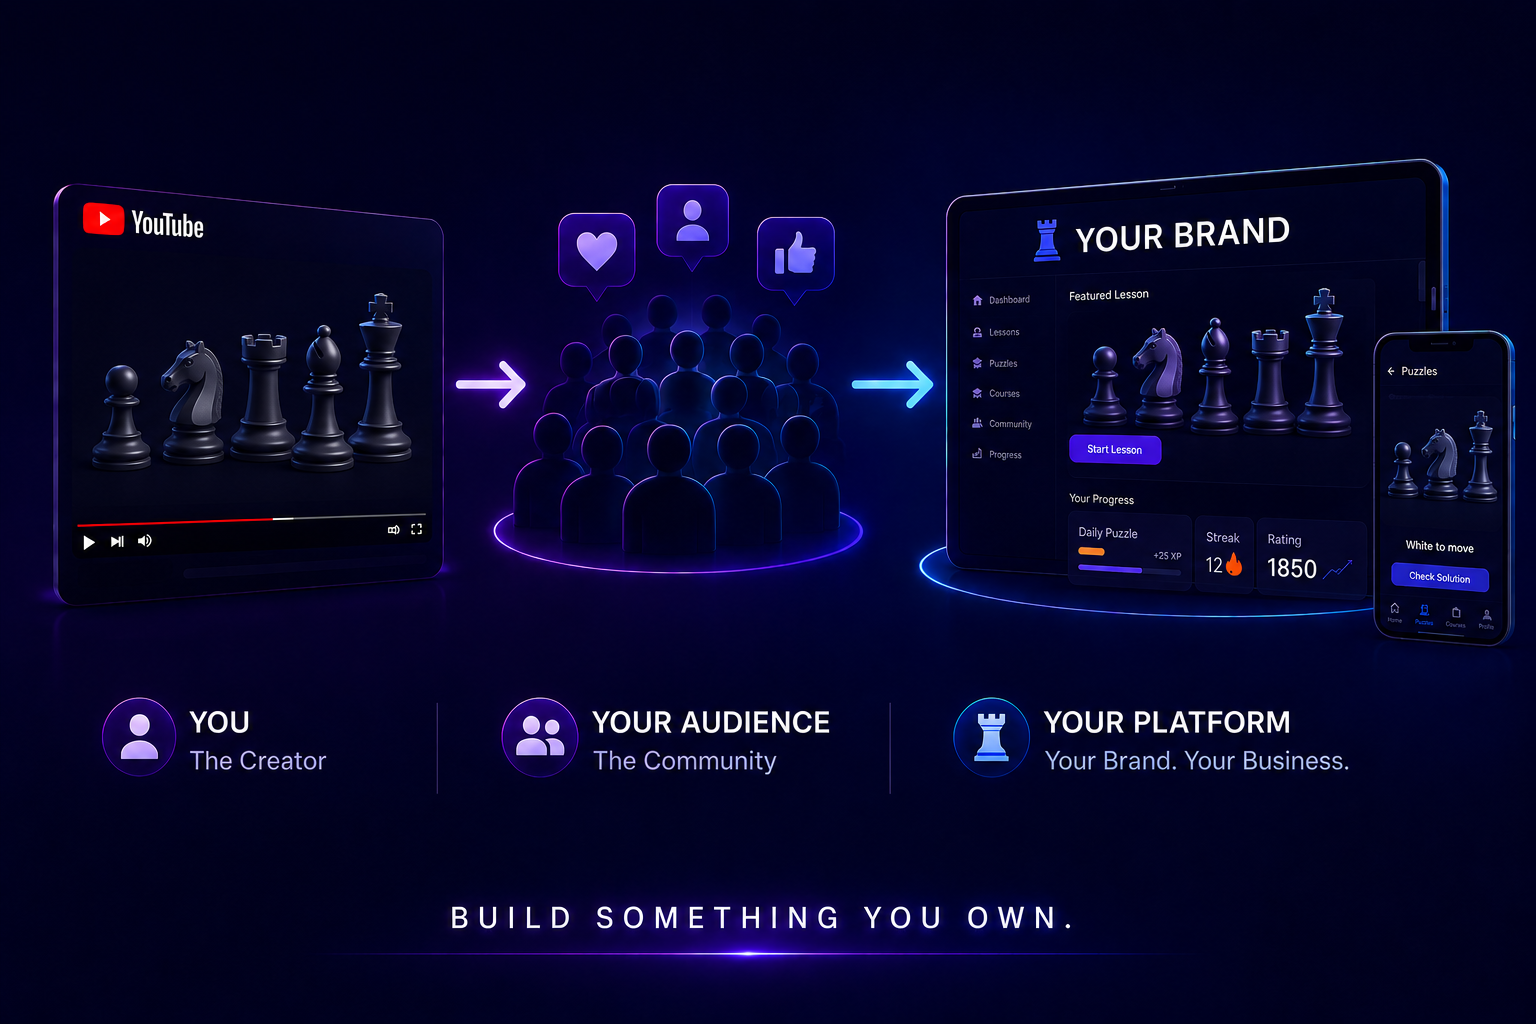
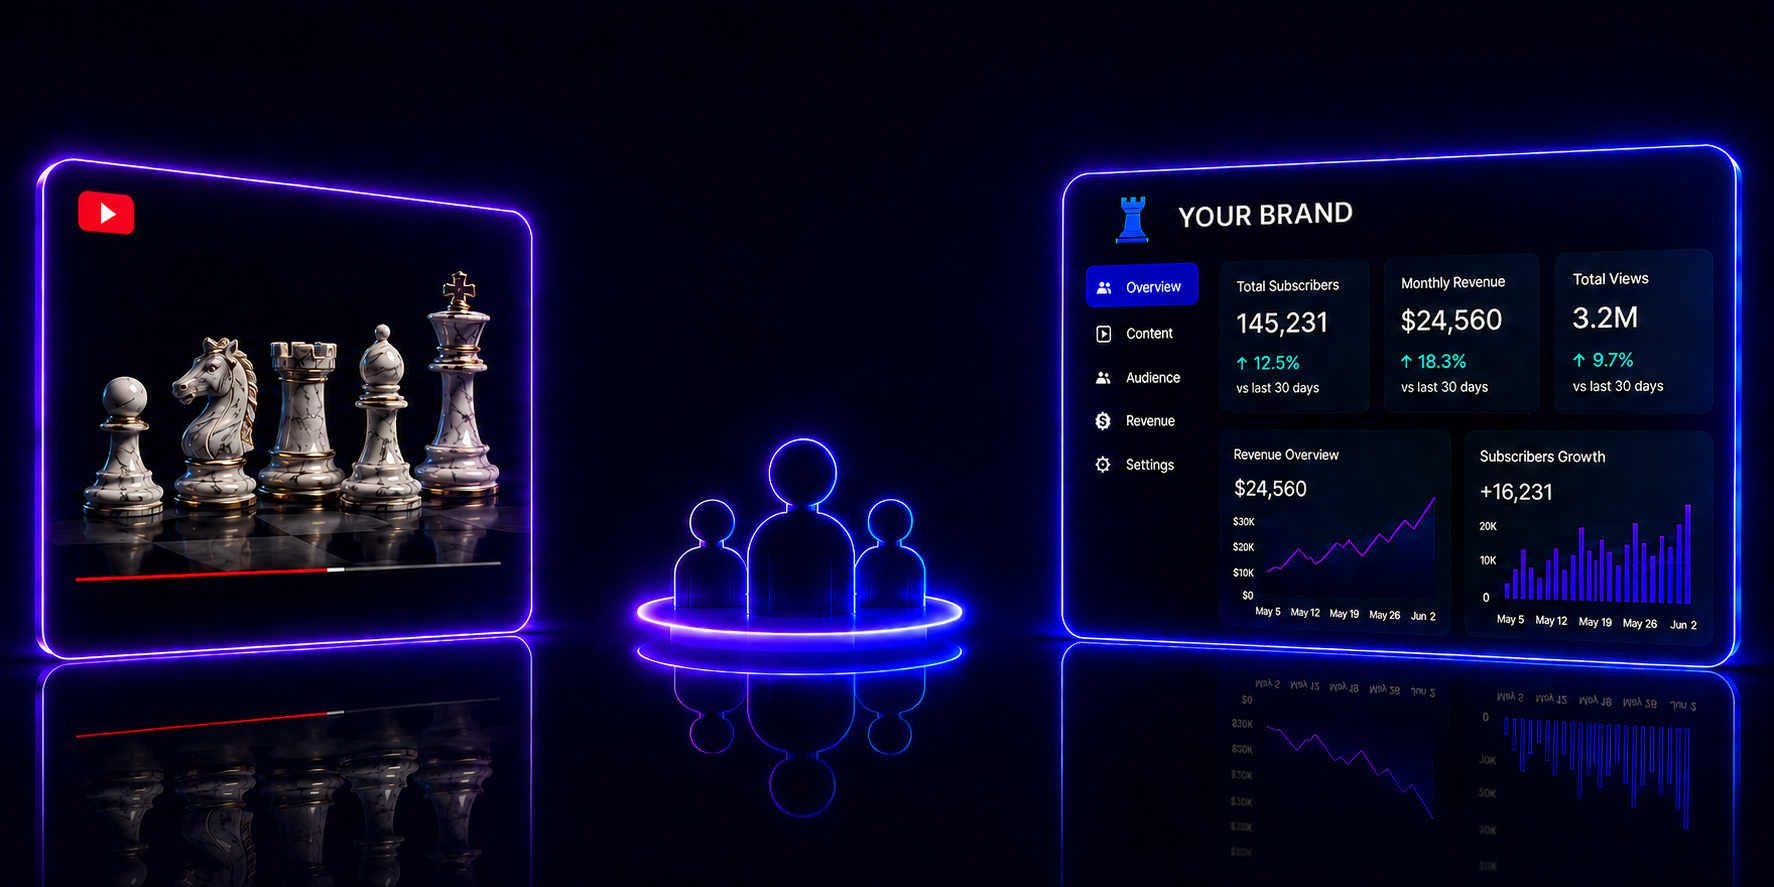
Refine UI and implement magnetic wiggle animations

diff --git a/src/components/Hero.tsx b/src/components/Hero.tsx
@@ -18,6 +18,7 @@ import { useRef } from 'react';
 
 import { useGSAP } from '../hooks/useGSAP';
 import { usePerspectiveTilt } from '../hooks/usePerspectiveTilt';
+import { useMagneticWiggle } from '../hooks/useMagneticWiggle';
 import { useButtonGlow } from '../hooks/useButtonGlow';
 import { gsap, dur, ease } from '../utils/gsapConfig';
 import HeroPuzzle from './HeroPuzzle';
@@ -62,11 +63,17 @@ export default function Hero() {
     disableMobileFloat: true,
   });
 
+  const ctaAnchorRef = useRef<HTMLAnchorElement>(null);
+
   // Merge tilt ref + glow ref onto the same anchor element
   const mergedPlayRef = (el: HTMLAnchorElement | null) => {
     (primaryGlowRef as React.MutableRefObject<HTMLAnchorElement | null>).current = el;
     (playBtnTiltRef as React.MutableRefObject<HTMLAnchorElement | null>).current = el;
+    (ctaAnchorRef as React.MutableRefObject<HTMLAnchorElement | null>).current = el;
   };
+
+  useMagneticWiggle({ targetRef: heroLogoRef, containerRef: heroLogoContainerRef, magneticStrength: 0.35 });
+  useMagneticWiggle({ targetRef: playIconRef, containerRef: ctaAnchorRef, magneticStrength: 0.4 });
 
   // ── GSAP entrance animations ───────────────────────────────────────────────
   useGSAP(
@@ -153,30 +160,8 @@ export default function Hero() {
         });
       }
 
-      // ── Hero logo floating animation ────────────────────────────────────
+      // ── Glow pulses (preserved) ──────────────────────────────────────────
       if (heroLogoRef.current) {
-        gsap.to(heroLogoRef.current, {
-          y: -6,
-          duration: 2,
-          repeat: -1,
-          yoyo: true,
-          ease: 'power1.inOut',
-        });
-        gsap.to(heroLogoRef.current, {
-          scale: 1.03,
-          duration: 2.5,
-          repeat: -1,
-          yoyo: true,
-          ease: 'sine.inOut',
-        });
-        gsap.to(heroLogoRef.current, {
-          rotation: 2,
-          duration: 3,
-          repeat: -1,
-          yoyo: true,
-          ease: 'sine.inOut',
-        });
-        // Subtle glow pulse
         gsap.to(heroLogoRef.current, {
           filter: 'drop-shadow(0 0 12px rgba(99, 102, 241, 0.5))',
           duration: 2,
@@ -185,46 +170,7 @@ export default function Hero() {
           ease: 'sine.inOut',
         });
       }
-
-      // ── Play icon floating animation — identical motion to hero logo ──────
-      // Same 4-layer animation: float ↕, scale breathe, gentle rotation, glow pulse
       if (playIconRef.current) {
-        // Layer 1: translateY float (-6px → 0) over 3s
-        gsap.to(playIconRef.current, {
-          y: -6,
-          duration: 3,
-          repeat: -1,
-          yoyo: true,
-          ease: 'power1.inOut',
-        });
-        // Layer 2: subtle X drift (-2px → +2px)
-        gsap.to(playIconRef.current, {
-          x: 2,
-          duration: 3.5,
-          repeat: -1,
-          yoyo: true,
-          ease: 'sine.inOut',
-          delay: 0.4,
-        });
-        // Layer 3: gentle scale breathe
-        gsap.to(playIconRef.current, {
-          scale: 1.04,
-          duration: 2.5,
-          repeat: -1,
-          yoyo: true,
-          ease: 'sine.inOut',
-          delay: 0.2,
-        });
-        // Layer 4: subtle rotation ±2°
-        gsap.to(playIconRef.current, {
-          rotation: 2,
-          duration: 4,
-          repeat: -1,
-          yoyo: true,
-          ease: 'sine.inOut',
-          delay: 0.6,
-        });
-        // Layer 5: indigo glow pulse matching hero logo
         gsap.to(playIconRef.current, {
           filter: 'drop-shadow(0 0 10px rgba(99, 102, 241, 0.55))',
           duration: 2,
@@ -331,8 +277,8 @@ export default function Hero() {
                 style={{ 
                   transformStyle: 'preserve-3d', 
                   willChange: 'transform',
-                  width: '190px',
-                  height: '80px',
+                  width: '140px',
+                  height: '64px',
                   padding: '0 20px',
                 }}
               >

diff --git a/src/hooks/useMagneticWiggle.ts b/src/hooks/useMagneticWiggle.ts
@@ -1,0 +1,70 @@
+import { useEffect } from 'react';
+import { gsap } from '../utils/gsapConfig';
+
+interface UseMagneticWiggleOptions<T extends HTMLElement, C extends HTMLElement> {
+  targetRef: React.RefObject<T | null>;
+  containerRef?: React.RefObject<C | null>;
+  magneticStrength?: number;
+}
+
+export function useMagneticWiggle<T extends HTMLElement, C extends HTMLElement>({
+  targetRef,
+  containerRef,
+  magneticStrength = 0.3,
+}: UseMagneticWiggleOptions<T, C>) {
+  useEffect(() => {
+    const target = targetRef.current;
+    const container = containerRef?.current || target;
+    
+    if (!target || !container) return;
+
+    // 1. Continuous wiggle (rotation and scale only, leaving x/y for the magnetic effect)
+    const wiggleTween = gsap.to(target, {
+      rotation: 3,
+      scale: 1.05,
+      duration: 2.5,
+      repeat: -1,
+      yoyo: true,
+      ease: 'sine.inOut',
+    });
+
+    // 2. Mouse move handler: calculate pull towards cursor
+    const onMouseMove = (e: MouseEvent) => {
+      const rect = container.getBoundingClientRect();
+      const cx = rect.left + rect.width / 2;
+      const cy = rect.top + rect.height / 2;
+      
+      const dx = e.clientX - cx;
+      const dy = e.clientY - cy;
+      
+      gsap.to(target, {
+        x: dx * magneticStrength,
+        y: dy * magneticStrength,
+        duration: 0.4,
+        ease: 'power2.out',
+        overwrite: 'auto', // only overwrites x and y, leaving rotation/scale alone
+      });
+    };
+
+    // 3. Mouse leave handler: elastic spring back to center
+    const onMouseLeave = () => {
+      gsap.to(target, {
+        x: 0,
+        y: 0,
+        duration: 0.8,
+        ease: 'elastic.out(1, 0.4)',
+        overwrite: 'auto',
+      });
+    };
+
+    container.addEventListener('mousemove', onMouseMove);
+    container.addEventListener('mouseleave', onMouseLeave);
+
+    return () => {
+      wiggleTween.kill();
+      container.removeEventListener('mousemove', onMouseMove);
+      container.removeEventListener('mouseleave', onMouseLeave);
+      gsap.killTweensOf(target, 'x,y');
+    };
+  }, [targetRef, containerRef, magneticStrength]);
+}

diff --git a/src/components/BrandSection.tsx b/src/components/BrandSection.tsx
@@ -18,12 +18,12 @@ export default function BrandSection() {
     () => {
       if (!sectionRef.current || !imageRef.current || !textRef.current) return;
 
-      // Image — slide in from left
+      // Image — fade up
       gsap.fromTo(
         imageRef.current,
-        { x: -40, opacity: 0 },
+        { y: 40, opacity: 0 },
         {
-          x: 0,
+          y: 0,
           opacity: 1,
           duration: dur(1),
           ease: 'power2.out',
@@ -35,12 +35,12 @@ export default function BrandSection() {
         }
       );
 
-      // Text — slide in from right
+      // Text — fade up
       gsap.fromTo(
         textRef.current,
-        { x: 40, opacity: 0 },
+        { y: 40, opacity: 0 },
         {
-          x: 0,
+          y: 0,
           opacity: 1,
           duration: dur(1),
           delay: 0.15,
@@ -71,15 +71,15 @@ export default function BrandSection() {
       />
 
       <div className="max-w-7xl mx-auto px-4 sm:px-6 lg:px-8 relative z-10">
-        <div className="grid grid-cols-1 lg:grid-cols-2 gap-12 lg:gap-16 items-center">
+        <div className="flex flex-col items-center gap-12 lg:gap-16">
 
-          {/* Left — Image */}
+          {/* Top — Image */}
           <div
             ref={imageRef}
-            className="flex justify-center"
+            className="w-full flex justify-center"
             style={{ opacity: 0 }}
           >
-            <div className="rounded-2xl overflow-hidden border border-brand-border/40 shadow-2xl"
+            <div className="w-full rounded-2xl overflow-hidden border border-brand-border/40 shadow-2xl"
               style={{
                 boxShadow: '0 0 60px rgba(99, 102, 241, 0.08), 0 25px 50px rgba(0, 0, 0, 0.3)',
               }}
@@ -87,16 +87,16 @@ export default function BrandSection() {
               <img
                 src="/new section .png"
                 alt="Build more than subscribers"
-                className="w-full max-w-[640px] h-auto object-contain"
+                className="w-full h-auto object-cover"
                 draggable={false}
               />
             </div>
           </div>
 
-          {/* Right — Text */}
+          {/* Bottom — Text */}
           <div
             ref={textRef}
-            className="space-y-6 text-left"
+            className="space-y-6 text-center max-w-3xl mx-auto"
             style={{ opacity: 0 }}
           >
             <h2 className="font-sans font-extrabold text-3xl sm:text-4xl md:text-5xl text-white tracking-tight leading-[1.1]">
@@ -107,10 +107,10 @@ export default function BrandSection() {
             </h2>
 
             <div className="space-y-4">
-              <p className="font-sans text-base sm:text-lg text-brand-secondary max-w-lg leading-relaxed">
+              <p className="font-sans text-base sm:text-lg text-brand-secondary leading-relaxed">
                 You've already done the hard part: building an audience.
               </p>
-              <p className="font-sans text-base sm:text-lg text-brand-secondary max-w-lg leading-relaxed">
+              <p className="font-sans text-base sm:text-lg text-brand-secondary leading-relaxed">
                 Now build a platform around your brand.
               </p>
             </div>

diff --git a/src/components/HeroPuzzle.tsx b/src/components/HeroPuzzle.tsx
@@ -860,8 +860,8 @@ export default function HeroPuzzle() {
                   fontFamily: 'Inter, system-ui, sans-serif',
                   fontSize: '14px',
                   fontWeight: 600,
-                  color: 'rgba(90,80,50,0.72)',
-                  textShadow: '0 1px 1px rgba(255,255,255,0.18), 0 -1px 1px rgba(0,0,0,0.32)',
+                  color: 'rgba(20, 30, 10, 0.5)',
+                  textShadow: '0 1px 0 rgba(255, 255, 255, 0.25)',
                   pointerEvents: 'none',
                   userSelect: 'none',
                   zIndex: 25,
@@ -884,8 +884,8 @@ export default function HeroPuzzle() {
                   fontFamily: 'Inter, system-ui, sans-serif',
                   fontSize: '14px',
                   fontWeight: 600,
-                  color: 'rgba(90,80,50,0.72)',
-                  textShadow: '0 1px 1px rgba(255,255,255,0.18), 0 -1px 1px rgba(0,0,0,0.32)',
+                  color: 'rgba(20, 30, 10, 0.5)',
+                  textShadow: '0 1px 0 rgba(255, 255, 255, 0.25)',
                   pointerEvents: 'none',
                   userSelect: 'none',
                   zIndex: 25,

diff --git a/src/components/EvaluationBar.tsx b/src/components/EvaluationBar.tsx
@@ -33,7 +33,7 @@ export function EvaluationBar({ evaluation, isDesktop, boardHeight }: Evaluation
 
   return (
     <div
-      className="flex lg:flex-col items-center justify-center gap-0"
+      className="flex lg:flex-col items-center justify-center gap-2"
       style={{ alignSelf: 'stretch', padding: '0' }}
     >
       <div
@@ -60,8 +60,8 @@ export function EvaluationBar({ evaluation, isDesktop, boardHeight }: Evaluation
         <span
           className="font-mono font-semibold text-sm sm:text-base lg:text-lg px-2 py-1 shadow-sm leading-none rounded-md"
           style={{
-            backgroundColor: evalIsNegative ? '#111827' : '#ffffff',
-            color: evalIsNegative ? '#ffffff' : '#111827',
+            backgroundColor: '#ffffff',
+            color: '#111827',
           }}
         >
           {evalLabel}

diff --git a/src/components/PartnerCTA.tsx b/src/components/PartnerCTA.tsx
@@ -103,11 +103,11 @@ export default function ContactSection() {
       {/* Background glow */}
       <div className="cta-orb absolute bottom-0 right-1/4 w-[500px] h-[500px] bg-brand-accent/5 rounded-full blur-[130px] pointer-events-none" />
 
-      <div className="max-w-4xl mx-auto px-4 sm:px-6 lg:px-8 relative z-10">
+      <div className="max-w-3xl mx-auto px-4 sm:px-6 lg:px-8 relative z-10">
         {/* ref attached here — ScrollTrigger fades this card up on enter */}
         <div
           ref={cardRef}
-          className="bg-brand-surface border border-brand-border rounded-2xl shadow-2xl p-8 sm:p-12 text-center space-y-8 relative overflow-hidden"
+          className="bg-brand-surface border border-brand-border rounded-2xl shadow-2xl py-8 px-6 sm:py-12 sm:px-8 text-center space-y-8 relative overflow-hidden"
           style={{ opacity: 0 }}
         >
 
@@ -141,7 +141,7 @@ export default function ContactSection() {
               </button>
             </div>
           ) : (
-            <form onSubmit={handleSubmit} noValidate className="text-left max-w-lg mx-auto space-y-5">
+            <form onSubmit={handleSubmit} noValidate className="text-left max-w-xl mx-auto space-y-5">
 
               {/* Email field */}
               <div className="space-y-1.5">

diff --git a/src/components/Footer.tsx b/src/components/Footer.tsx
@@ -16,7 +16,7 @@ export default function Footer() {
   return (
     <footer
       ref={footerRef}
-      className="py-12 md:py-16"
+      className="py-6 md:py-8"
       style={{ opacity: 0, backgroundColor: '#0F1D4D' }}
     >
       <div className="max-w-7xl mx-auto px-4 sm:px-6 lg:px-8">